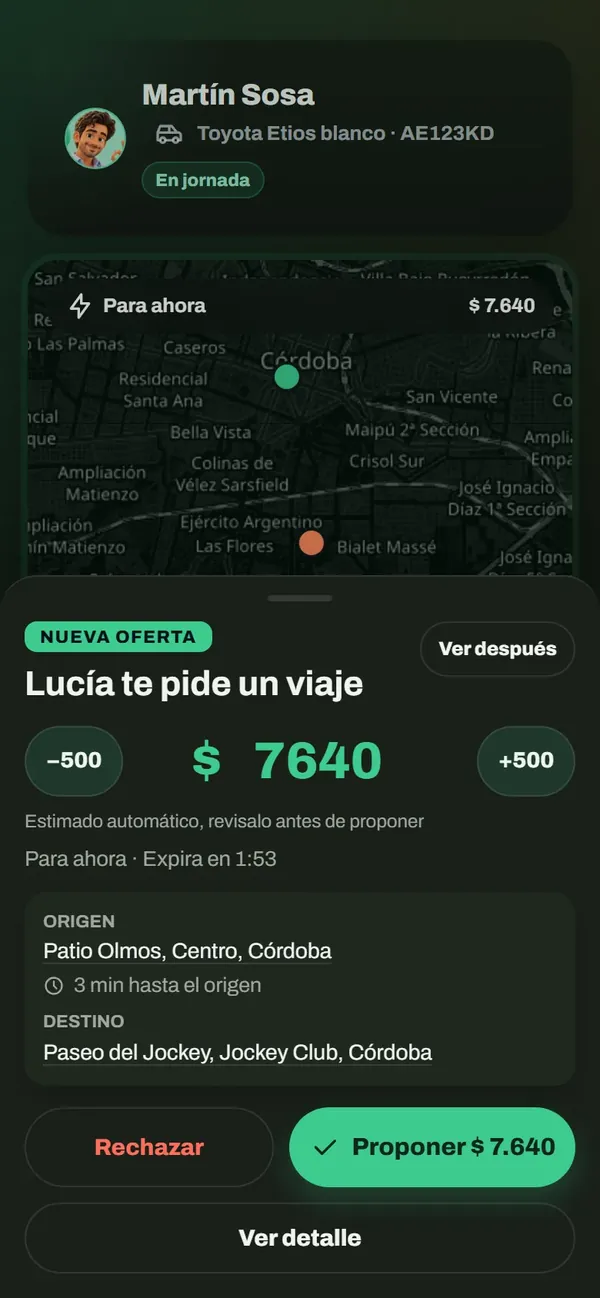
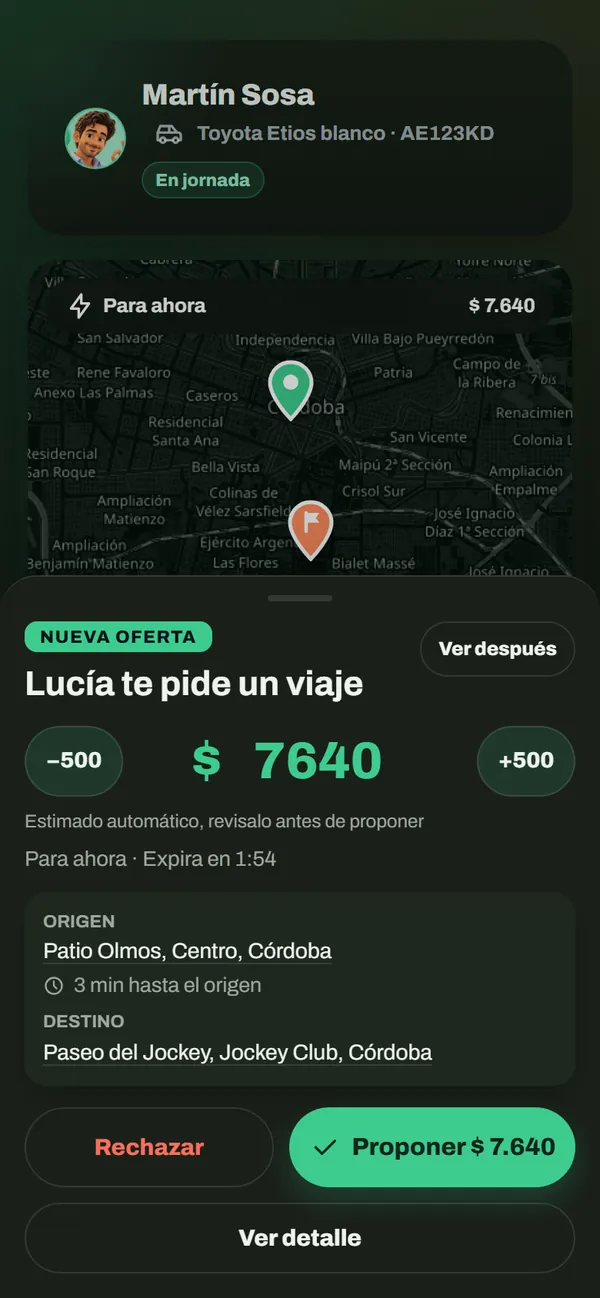
Landing: Como funciona con botones en una fila, tarjetas de cada paso y pines en el mapa
- Botones de las pantallas en una sola fila, con icono 3D y una barrita que
  avanza mientras la pantalla baja (en el pedido, con la secuencia).
- Cartel de cada paso del pedido como las tarjetas del hero: avatar del chofer
  o de la pasajera, icono y puntos de avance.
- Capturas nuevas con los pines de origen y destino, recortadas donde termina
  el contenido (ya no queda el hueco negro al final de la pantalla).
- site.css?v=20261105b.

diff --git a/landing-independiente/index.html b/landing-independiente/index.html
@@ -62,7 +62,7 @@
 <link rel="preconnect" href="https://fonts.gstatic.com" crossorigin>
 <link rel="stylesheet" href="https://fonts.googleapis.com/css2?family=Archivo:wdth,wght@62..100,400..800&display=swap">
 <link rel="preload" as="image" href="assets/screens/app-nueva-oferta.webp" type="image/webp">
-<link rel="stylesheet" href="/assets/site.css?v=20261105a">
+<link rel="stylesheet" href="/assets/site.css?v=20261105b">
 <script src="/assets/analytics.js"></script>
 <script src="/assets/nav.js" defer></script>
 </head>
@@ -171,8 +171,8 @@
     <article class="pillar" id="tu-app" role="tabpanel" aria-labelledby="tab-tu-app">
       <div class="pillar-media">
         <div class="viewer" data-viewer>
-          <div class="phone-pin"><div class="phone"><div class="track" tabindex="0" aria-label="Pantallas de la app del chofer. Deslizá para ver cada pantalla"><div class="slide slide-seq" data-cap="Te entra un viaje: ponés tu precio, ella acepta y salís."><img src="assets/app/of-1.webp" alt="Pedido nuevo de Lucía de Patio Olmos a Paseo del Jockey" width="600" height="1298"><img src="assets/app/of-2.webp" alt="El chofer sube el precio con el botón +500" width="600" height="1298" loading="lazy"><img src="assets/app/of-3.webp" alt="Propuesta enviada, esperando que la pasajera acepte" width="600" height="1298" loading="lazy"><img src="assets/app/of-4.webp" alt="Viaje confirmado con el botón Voy en camino" width="600" height="1298" loading="lazy"><img src="assets/app/of-5.webp" alt="El chofer en camino al origen, con el mapa del recorrido" width="600" height="1298" loading="lazy"><span class="seq-chip">1 · Te entra el pedido</span><span class="seq-chip">2 · Ponés tu precio</span><span class="seq-chip">3 · Esperás que acepte</span><span class="seq-chip">4 · Aceptó: salís a buscarla</span><span class="seq-chip">5 · Vas en camino</span></div><div class="slide" data-cap="Tus viajes de la semana y las reservas que vienen."><img src="assets/app/agenda.webp" alt="Agenda del chofer en vista semana, con una reserva para mañana al aeropuerto" width="600" height="2372" loading="lazy"></div><div class="slide" data-cap="Tus pasajeros, y tu link y QR para conseguir más."><img src="assets/app/pasajeros.webp" alt="Pasajeros del chofer, su QR y su link para compartir" width="600" height="3188" loading="lazy"></div><div class="slide" data-cap="Precio, cobros y WhatsApp, configurados a tu manera."><img src="assets/app/negocio.webp" alt="Perfil del chofer: perfil público, tipo de precio, Mercado Pago y WhatsApp" width="600" height="2755" loading="lazy"></div></div></div></div>
-          <div class="viewer-tabs" role="tablist" aria-label="Pantallas de la app del chofer"><button type="button" role="tab" aria-selected="true" data-i="0">Pedido nuevo</button><button type="button" role="tab" aria-selected="false" data-i="1">Agenda</button><button type="button" role="tab" aria-selected="false" data-i="2">Pasajeros</button><button type="button" role="tab" aria-selected="false" data-i="3">Tu negocio</button></div>
+          <div class="phone-pin"><div class="phone"><div class="track" tabindex="0" aria-label="Pantallas de la app del chofer. Deslizá para ver cada pantalla"><div class="slide slide-seq" data-cap="Te entra un viaje: ponés tu precio, ella acepta y salís."><img src="assets/app/of-1.webp" alt="Pedido nuevo de Lucía de Patio Olmos a Paseo del Jockey" width="600" height="1298"><img src="assets/app/of-2.webp" alt="El chofer sube el precio con el botón +500" width="600" height="1298" loading="lazy"><img src="assets/app/of-3.webp" alt="Propuesta enviada, esperando que la pasajera acepte" width="600" height="1298" loading="lazy"><img src="assets/app/of-4.webp" alt="Viaje confirmado con el botón Voy en camino" width="600" height="1298" loading="lazy"><img src="assets/app/of-5.webp" alt="El chofer en camino al origen, con el mapa del recorrido" width="600" height="1298" loading="lazy"><div class="seq-card hot"><span class="seq-card-in"><span class="seq-txt"><small>Paso 1 · Vos</small><b>Te entra el pedido</b><span class="seq-dots"><i class="on"></i><i></i><i></i><i></i><i></i></span></span><span class="av"><img src="assets/objetos/av-martin.webp" alt="" width="112" height="112"><i><img src="assets/illustrations/3d_v1/ic-bell-notifications.webp" alt="" width="56" height="56"></i></span></span></div><div class="seq-card hot"><span class="seq-card-in"><span class="seq-txt"><small>Paso 2 · Vos</small><b>Ponés tu precio</b><span class="seq-dots"><i class="done"></i><i class="on"></i><i></i><i></i><i></i></span></span><span class="av"><img src="assets/objetos/av-martin.webp" alt="" width="112" height="112"><i><img src="assets/illustrations/3d_v1/ic-money-bag.webp" alt="" width="56" height="56"></i></span></span></div><div class="seq-card hot"><span class="seq-card-in"><span class="seq-txt"><small>Paso 3 · Vos</small><b>Esperás que acepte</b><span class="seq-dots"><i class="done"></i><i class="done"></i><i class="on"></i><i></i><i></i></span></span><span class="av"><img src="assets/objetos/av-martin.webp" alt="" width="112" height="112"><i><img src="assets/illustrations/3d_v1/ic-clock-waiting.webp" alt="" width="56" height="56"></i></span></span></div><div class="seq-card"><span class="seq-card-in"><span class="av"><img src="assets/objetos/av-lucia.webp" alt="" width="112" height="112"><i><svg viewBox="0 0 24 24" fill="none" stroke="#1d9e66" stroke-width="3.2" stroke-linecap="round" stroke-linejoin="round" aria-hidden="true"><path d="M5 12.5l4.5 4.5L19 7.5"/></svg></i></span><span class="seq-txt"><small>Paso 4 · Tu pasajera</small><b>Lucía aceptó tu precio</b><span class="seq-dots"><i class="done"></i><i class="done"></i><i class="done"></i><i class="on"></i><i></i></span></span></span></div><div class="seq-card hot"><span class="seq-card-in"><span class="seq-txt"><small>Paso 5 · Vos</small><b>Salís a buscarla</b><span class="seq-dots"><i class="done"></i><i class="done"></i><i class="done"></i><i class="done"></i><i class="on"></i></span></span><span class="av"><img src="assets/objetos/av-martin.webp" alt="" width="112" height="112"><i><img src="assets/illustrations/3d_v1/ic-car-icon.webp" alt="" width="56" height="56"></i></span></span></div></div><div class="slide" data-cap="Tus viajes de la semana y las reservas que vienen."><img src="assets/app/agenda.webp" alt="Agenda del chofer en vista semana, con una reserva para mañana al aeropuerto" width="600" height="2178" loading="lazy"></div><div class="slide" data-cap="Tus pasajeros, y tu link y QR para conseguir más."><img src="assets/app/pasajeros.webp" alt="Pasajeros del chofer, su QR y su link para compartir" width="600" height="2763" loading="lazy"></div><div class="slide" data-cap="Precio, cobros y WhatsApp, configurados a tu manera."><img src="assets/app/negocio.webp" alt="Perfil del chofer: perfil público, tipo de precio, Mercado Pago y WhatsApp" width="600" height="2331" loading="lazy"></div></div></div></div>
+          <div class="viewer-tabs" role="tablist" aria-label="Pantallas de la app del chofer"><button type="button" role="tab" aria-selected="true" data-i="0"><img src="assets/illustrations/3d_v1/ic-bell-notifications.webp" alt="" width="56" height="56"><span>Pedido</span><em aria-hidden="true"></em></button><button type="button" role="tab" aria-selected="false" data-i="1"><img src="assets/illustrations/3d_v1/ic-calendar.webp" alt="" width="56" height="56"><span>Agenda</span><em aria-hidden="true"></em></button><button type="button" role="tab" aria-selected="false" data-i="2"><img src="assets/illustrations/3d_v1/ic-qr-code.webp" alt="" width="56" height="56"><span>Pasajeros</span><em aria-hidden="true"></em></button><button type="button" role="tab" aria-selected="false" data-i="3"><img src="assets/illustrations/3d_v1/ic-cash-bill.webp" alt="" width="56" height="56"><span>Negocio</span><em aria-hidden="true"></em></button></div>
           <p class="viewer-cap" aria-live="polite">Te entra un viaje: ponés tu precio, ella acepta y salís.</p>
           <a class="more more-media" href="tu-app">Ver la app por dentro →</a>
         </div>
@@ -193,8 +193,8 @@
     <article class="pillar flip" id="tus-pasajeros" role="tabpanel" aria-labelledby="tab-tus-pasajeros">
       <div class="pillar-media">
         <div class="viewer" data-viewer>
-          <div class="phone-pin"><div class="phone"><div class="track" tabindex="0" aria-label="Pantallas de la app de tus pasajeros. Deslizá para ver cada pantalla"><div class="slide" data-cap="Entra con tu link o tu QR y te pide sin descargar nada."><img src="assets/app/te-pide.webp" alt="Web de Martín Sosa con el viaje de Patio Olmos a Paseo del Jockey en el mapa" width="600" height="2760"></div><div class="slide" data-cap="Sigue el viaje en el mapa y ve quién la busca."><img src="assets/app/en-vivo.webp" alt="La pasajera sigue al chofer en camino en el mapa" width="600" height="1897" loading="lazy"></div><div class="slide" data-cap="Te tiene guardado y te vuelve a pedir en un toque."><img src="assets/app/te-guarda.webp" alt="Martín Sosa guardado como chofer de confianza" width="600" height="1298" loading="lazy"></div><div class="slide" data-cap="Sus viajes programados y los que ya hizo con vos."><img src="assets/app/reservas.webp" alt="Viajes de la pasajera: su reserva confirmada y el historial con Martín Sosa" width="600" height="3428" loading="lazy"></div></div></div></div>
-          <div class="viewer-tabs" role="tablist" aria-label="Pantallas de la app de tus pasajeros"><button type="button" role="tab" aria-selected="true" data-i="0">Te pide</button><button type="button" role="tab" aria-selected="false" data-i="1">En vivo</button><button type="button" role="tab" aria-selected="false" data-i="2">Te guarda</button><button type="button" role="tab" aria-selected="false" data-i="3">Reservas</button></div>
+          <div class="phone-pin"><div class="phone"><div class="track" tabindex="0" aria-label="Pantallas de la app de tus pasajeros. Deslizá para ver cada pantalla"><div class="slide" data-cap="Entra con tu link o tu QR y te pide sin descargar nada."><img src="assets/app/te-pide.webp" alt="Web de Martín Sosa con el viaje de Patio Olmos a Paseo del Jockey en el mapa" width="600" height="2612"></div><div class="slide" data-cap="Sigue el viaje en el mapa y ve quién la busca."><img src="assets/app/en-vivo.webp" alt="La pasajera sigue al chofer en camino en el mapa" width="600" height="1592" loading="lazy"></div><div class="slide" data-cap="Te tiene guardado y te vuelve a pedir en un toque."><img src="assets/app/te-guarda.webp" alt="Martín Sosa guardado como chofer de confianza" width="600" height="1298" loading="lazy"></div><div class="slide" data-cap="Sus viajes programados y los que ya hizo con vos."><img src="assets/app/reservas.webp" alt="Viajes de la pasajera: su reserva confirmada y el historial con Martín Sosa" width="600" height="3237" loading="lazy"></div></div></div></div>
+          <div class="viewer-tabs" role="tablist" aria-label="Pantallas de la app de tus pasajeros"><button type="button" role="tab" aria-selected="true" data-i="0"><img src="assets/illustrations/3d_v1/ic-link.webp" alt="" width="56" height="56"><span>Te pide</span><em aria-hidden="true"></em></button><button type="button" role="tab" aria-selected="false" data-i="1"><img src="assets/illustrations/3d_v1/ic-location.webp" alt="" width="56" height="56"><span>En vivo</span><em aria-hidden="true"></em></button><button type="button" role="tab" aria-selected="false" data-i="2"><img class="tav" src="assets/objetos/av-martin.webp" alt="" width="112" height="112"><span>Te guarda</span><em aria-hidden="true"></em></button><button type="button" role="tab" aria-selected="false" data-i="3"><img src="assets/illustrations/3d_v1/ic-calendar.webp" alt="" width="56" height="56"><span>Reservas</span><em aria-hidden="true"></em></button></div>
           <p class="viewer-cap" aria-live="polite">Entra con tu link o tu QR y te pide sin descargar nada.</p>
           <a class="more more-media" href="para-tus-pasajeros">Ver qué ve tu pasajero →</a>
         </div>
@@ -433,6 +433,7 @@
         var img = sl.classList.contains('slide-seq') ? null : sl.querySelector('img');
         if (img) img.style.transform = 'translateY(' + (j === current ? -overflowOf(sl) * p : 0) + 'px)';
       });
+      if (!slides[current].classList.contains('slide-seq')) tabs[current].style.setProperty('--p', p.toFixed(3));
     }
     tabs.forEach(function(t, i){
       t.addEventListener('click', function(){ track.scrollTo({ left: i * track.clientWidth, behavior: 'smooth' }); mark(i); });

diff --git a/landing-independiente/assets/site.css b/landing-independiente/assets/site.css
@@ -622,25 +622,68 @@ body.mnav-open{overflow:hidden}
    secuencia de 5 pasos de 2,6 s con su etiqueta arriba. */
 .track .slide{flex:0 0 100%;scroll-snap-align:start;scroll-snap-stop:always;position:relative;overflow:hidden;height:100%}
 .track .slide img{display:block;width:100%;height:auto;will-change:transform}
-.slide-seq img{position:absolute;inset:0;height:100%;object-fit:cover;object-position:top;opacity:0;animation:ofseq 13s infinite}
-.slide-seq img:first-child{opacity:1}
-.slide-seq img:nth-child(2),.slide-seq .seq-chip:nth-of-type(2){animation-delay:2.6s}
-.slide-seq img:nth-child(3),.slide-seq .seq-chip:nth-of-type(3){animation-delay:5.2s}
-.slide-seq img:nth-child(4),.slide-seq .seq-chip:nth-of-type(4){animation-delay:7.8s}
-.slide-seq img:nth-child(5),.slide-seq .seq-chip:nth-of-type(5){animation-delay:10.4s}
+.slide-seq>img{position:absolute;inset:0;height:100%;object-fit:cover;object-position:top;opacity:0;animation:ofseq 13s infinite}
+.slide-seq>img:first-child{opacity:1}
+.slide-seq>img:nth-child(2),.slide-seq .seq-chip:nth-of-type(2){animation-delay:2.6s}
+.slide-seq>img:nth-child(3),.slide-seq .seq-chip:nth-of-type(3){animation-delay:5.2s}
+.slide-seq>img:nth-child(4),.slide-seq .seq-chip:nth-of-type(4){animation-delay:7.8s}
+.slide-seq>img:nth-child(5),.slide-seq .seq-chip:nth-of-type(5){animation-delay:10.4s}
 @keyframes ofseq{0%{opacity:0}3%,19%{opacity:1}22%,100%{opacity:0}}
 .seq-chip{position:absolute;z-index:2;left:50%;top:12px;transform:translateX(-50%);white-space:nowrap;padding:6px 12px;border-radius:999px;background:var(--verde);color:var(--verde-ink);font-size:12px;font-weight:800;box-shadow:0 8px 20px rgba(0,0,0,.45);opacity:0;animation:ofseq 13s infinite}
 @media (prefers-reduced-motion:reduce){
-  .slide-seq img,.seq-chip{animation:none}
-  .slide-seq img:first-child,.slide-seq .seq-chip:nth-of-type(1){opacity:1}
+  .slide-seq>img,.seq-chip{animation:none}
+  .slide-seq>img:first-child,.slide-seq .seq-chip:nth-of-type(1){opacity:1}
   .track .slide{overflow-y:auto}
 }
 /* Las capturas largas no pueden estirar el celular: la pista va fuera del
    flujo y el celular mide lo que dice su proporcion. */
 .viewer .phone .track{position:absolute;inset:9px;width:auto;height:auto}
-.track .slide-seq img{height:100%}
+.track .slide-seq>img{height:100%}
 /* Recorrido del celular fijo: debajo del menu (64px) y de las pestanas de
    los dos lados, que tambien quedan fijas. */
 .phone-pin{position:relative;width:100%;display:flex;justify-content:center;align-items:flex-start}
 .phone-pin .phone{position:sticky;top:150px}
 @media (max-width:600px){.phone-pin .phone{top:140px}}
+/* Como funciona v2: botones en una fila con icono, como la barra de la app,
+   y una barrita que se llena mientras la pantalla baja. */
+.viewer-tabs{display:grid;grid-template-columns:repeat(4,1fr);gap:6px;width:min(372px,100%);max-width:none;padding:6px;border-radius:22px;background:rgba(255,255,255,.03);border:1px solid var(--line)}
+.viewer-tabs button{position:relative;overflow:hidden;display:flex;flex-direction:column;align-items:center;gap:4px;min-width:0;padding:8px 2px 10px;border-radius:16px;border:1px solid transparent;background:transparent;font-size:12px;line-height:1.1;letter-spacing:-.01em}
+.viewer-tabs button img{width:30px;height:30px;transition:transform .2s;filter:saturate(.55) brightness(.85)}
+.viewer-tabs button .tav{border-radius:50%;background:#DDE8E1}
+.viewer-tabs button span{white-space:nowrap}
+.viewer-tabs button:hover{border-color:var(--line)}
+.viewer-tabs button[aria-selected="true"]{color:var(--text);background:var(--verde-soft);border-color:rgba(61,204,142,.45)}
+.viewer-tabs button[aria-selected="true"] img{transform:translateY(-1px) scale(1.12);filter:none}
+.viewer-tabs button em{position:absolute;left:14px;right:14px;bottom:4px;height:3px;border-radius:3px;background:rgba(255,255,255,.08);opacity:0}
+.viewer-tabs button em::after{content:"";position:absolute;inset:0;border-radius:inherit;background:var(--verde);transform-origin:left;transform:scaleX(var(--p,0))}
+.viewer-tabs button[aria-selected="true"] em{opacity:1}
+[aria-label="Pantallas de la app del chofer"] button[data-i="0"][aria-selected="true"] em::after{animation:tabseq 13s linear infinite}
+@keyframes tabseq{from{transform:scaleX(0)}to{transform:scaleX(1)}}
+
+/* Cartel de cada paso del pedido: tarjeta como las del hero */
+.seq-card{position:absolute;z-index:2;left:8px;right:8px;top:10px;display:flex;opacity:0;animation:seqcard 13s infinite}
+.seq-card.hot{justify-content:flex-end}
+.seq-card-in{display:flex;align-items:center;gap:11px;max-width:100%;padding:9px 16px 9px 9px;border-radius:18px;background:#F4F6F1;color:#06150D;box-shadow:0 14px 32px rgba(0,0,0,.5)}
+.seq-card.hot .seq-card-in{padding:9px 9px 9px 16px;background:#06150D;color:#F4F6F1;border:1px solid rgba(61,204,142,.35);text-align:right}
+.seq-card .av{width:42px;height:42px}.seq-card .av>img{width:42px;height:42px}
+.seq-card .av i{width:24px;height:24px;right:-6px;bottom:-5px}.seq-card .av i img,.seq-card .av i svg{width:17px;height:17px}
+.seq-txt{display:flex;flex-direction:column;gap:3px;min-width:0}
+.seq-txt small{font-size:9.5px;font-weight:800;letter-spacing:.05em;text-transform:uppercase;color:#1d7a52}
+.seq-card.hot .seq-txt small{color:#39D78D}
+.seq-txt b{font-size:15px;font-weight:800;line-height:1.1;white-space:nowrap}
+.seq-dots{display:flex;gap:4px;margin-top:2px}
+.seq-card.hot .seq-dots{justify-content:flex-end}
+.seq-dots i{width:6px;height:6px;border-radius:3px;background:rgba(6,21,13,.18)}
+.seq-card.hot .seq-dots i{background:rgba(244,246,241,.2)}
+.seq-dots i.done{background:#1d9e66}.seq-card.hot .seq-dots i.done{background:#39D78D}
+.seq-dots i.on{width:18px;background:#1d9e66}.seq-card.hot .seq-dots i.on{background:#39D78D}
+.slide-seq .seq-card:nth-of-type(2){animation-delay:2.6s}
+.slide-seq .seq-card:nth-of-type(3){animation-delay:5.2s}
+.slide-seq .seq-card:nth-of-type(4){animation-delay:7.8s}
+.slide-seq .seq-card:nth-of-type(5){animation-delay:10.4s}
+@keyframes seqcard{0%{opacity:0;transform:translateY(-14px) scale(.96)}3%,19%{opacity:1;transform:none}22%,100%{opacity:0;transform:translateY(-6px)}}
+@media (prefers-reduced-motion: reduce){.seq-card{animation:none}.slide-seq .seq-card:nth-of-type(1){opacity:1}.viewer-tabs button em::after{animation:none!important}}
+.seq-txt b{white-space:normal}
+.seq-card{top:16px}
+@media (max-width:600px){.phone-pin .phone{top:164px}}
+.seq-card-in{width:max-content}

diff --git a/landing-independiente/agenda.html b/landing-independiente/agenda.html
@@ -19,7 +19,7 @@
 <link rel="preconnect" href="https://fonts.googleapis.com">
 <link rel="preconnect" href="https://fonts.gstatic.com" crossorigin>
 <link rel="stylesheet" href="https://fonts.googleapis.com/css2?family=Archivo:wdth,wght@62..100,400..800&display=swap">
-<link rel="stylesheet" href="/assets/site.css?v=20261105a">
+<link rel="stylesheet" href="/assets/site.css?v=20261105b">
 <script src="/assets/analytics.js"></script>
 <script src="/assets/nav.js" defer></script>
 </head>

diff --git a/landing-independiente/cobros.html b/landing-independiente/cobros.html
@@ -19,7 +19,7 @@
 <link rel="preconnect" href="https://fonts.googleapis.com">
 <link rel="preconnect" href="https://fonts.gstatic.com" crossorigin>
 <link rel="stylesheet" href="https://fonts.googleapis.com/css2?family=Archivo:wdth,wght@62..100,400..800&display=swap">
-<link rel="stylesheet" href="/assets/site.css?v=20261105a">
+<link rel="stylesheet" href="/assets/site.css?v=20261105b">
 <script src="/assets/analytics.js"></script>
 <script src="/assets/nav.js" defer></script>
 </head>

diff --git a/landing-independiente/compartir.html b/landing-independiente/compartir.html
@@ -19,7 +19,7 @@
 <link rel="preconnect" href="https://fonts.googleapis.com">
 <link rel="preconnect" href="https://fonts.gstatic.com" crossorigin>
 <link rel="stylesheet" href="https://fonts.googleapis.com/css2?family=Archivo:wdth,wght@62..100,400..800&display=swap">
-<link rel="stylesheet" href="/assets/site.css?v=20261105a">
+<link rel="stylesheet" href="/assets/site.css?v=20261105b">
 <script src="/assets/analytics.js"></script>
 <script src="/assets/nav.js" defer></script>
 </head>

diff --git a/landing-independiente/notificaciones.html b/landing-independiente/notificaciones.html
@@ -19,7 +19,7 @@
 <link rel="preconnect" href="https://fonts.googleapis.com">
 <link rel="preconnect" href="https://fonts.gstatic.com" crossorigin>
 <link rel="stylesheet" href="https://fonts.googleapis.com/css2?family=Archivo:wdth,wght@62..100,400..800&display=swap">
-<link rel="stylesheet" href="/assets/site.css?v=20261105a">
+<link rel="stylesheet" href="/assets/site.css?v=20261105b">
 <script src="/assets/analytics.js"></script>
 <script src="/assets/nav.js" defer></script>
 </head>

diff --git a/landing-independiente/para-tus-pasajeros.html b/landing-independiente/para-tus-pasajeros.html
@@ -19,7 +19,7 @@
 <link rel="preconnect" href="https://fonts.googleapis.com">
 <link rel="preconnect" href="https://fonts.gstatic.com" crossorigin>
 <link rel="stylesheet" href="https://fonts.googleapis.com/css2?family=Archivo:wdth,wght@62..100,400..800&display=swap">
-<link rel="stylesheet" href="/assets/site.css?v=20261105a">
+<link rel="stylesheet" href="/assets/site.css?v=20261105b">
 <script src="/assets/analytics.js"></script>
 <script src="/assets/nav.js" defer></script>
 </head>

diff --git a/landing-independiente/precio.html b/landing-independiente/precio.html
@@ -19,7 +19,7 @@
 <link rel="preconnect" href="https://fonts.googleapis.com">
 <link rel="preconnect" href="https://fonts.gstatic.com" crossorigin>
 <link rel="stylesheet" href="https://fonts.googleapis.com/css2?family=Archivo:wdth,wght@62..100,400..800&display=swap">
-<link rel="stylesheet" href="/assets/site.css?v=20261105a">
+<link rel="stylesheet" href="/assets/site.css?v=20261105b">
 <script src="/assets/analytics.js"></script>
 <script src="/assets/nav.js" defer></script>
 </head>

diff --git a/landing-independiente/tu-app.html b/landing-independiente/tu-app.html
@@ -19,7 +19,7 @@
 <link rel="preconnect" href="https://fonts.googleapis.com">
 <link rel="preconnect" href="https://fonts.gstatic.com" crossorigin>
 <link rel="stylesheet" href="https://fonts.googleapis.com/css2?family=Archivo:wdth,wght@62..100,400..800&display=swap">
-<link rel="stylesheet" href="/assets/site.css?v=20261105a">
+<link rel="stylesheet" href="/assets/site.css?v=20261105b">
 <script src="/assets/analytics.js"></script>
 <script src="/assets/nav.js" defer></script>
 </head>
